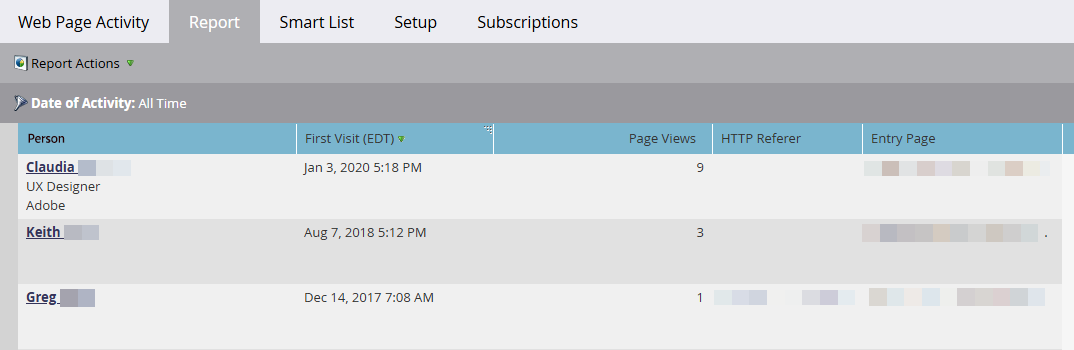
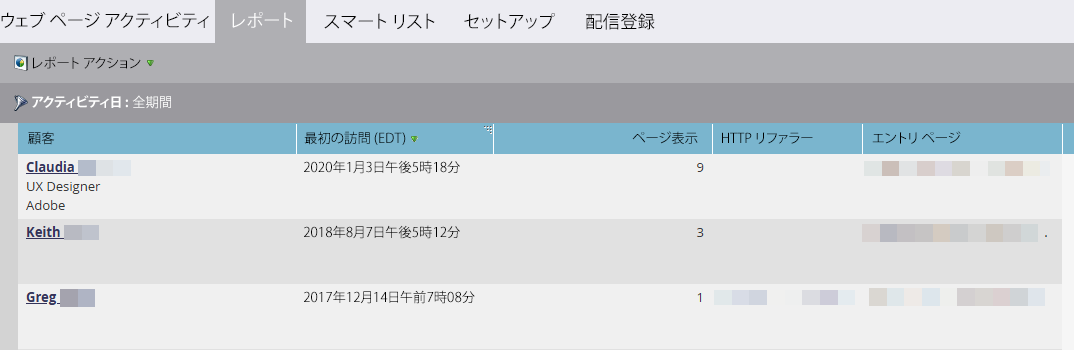
Updated by task 'AUTO_HANDOFF_1743687024037'  Changes for core/source commit https://git.corp.adobe.com/AdobeDocs/marketo.en/commit/f0ad739b85174976f2adbe30cf4d755c1da93f05

diff --git a/help/marketo/product-docs/reporting/basic-reporting/report-types/web-page-activity-report.md b/help/marketo/product-docs/reporting/basic-reporting/report-types/web-page-activity-report.md
@@ -5,9 +5,9 @@ title: Web ページアクティビティレポート
 exl-id: 35bd37bd-e7b9-4418-b2c9-af5989f44b9f
 feature: Reporting
 source-git-commit: f0ad739b85174976f2adbe30cf4d755c1da93f05
-workflow-type: tm+mt
+workflow-type: ht
 source-wordcount: '322'
-ht-degree: 91%
+ht-degree: 100%
 
 ---
 
@@ -21,7 +21,7 @@ ht-degree: 91%
 >
 >* [Web サイトへの Munchkin トラッキングコードの追加](/help/marketo/product-docs/administration/additional-integrations/add-munchkin-tracking-code-to-your-website.md){target="_blank"}
 
-1. [ レポートを作成 ](/help/marketo/product-docs/reporting/basic-reporting/creating-reports/create-a-report-in-a-program.md) し、**Web ページアクティビティレポート**[ レポートタイプ ](/help/marketo/product-docs/reporting/basic-reporting/report-types/report-type-overview.md){target="_blank"} を選択します
+1. [レポートを作成](/help/marketo/product-docs/reporting/basic-reporting/creating-reports/create-a-report-in-a-program.md)して、「**Web ページアクティビティレポート**」[レポートタイプ](/help/marketo/product-docs/reporting/basic-reporting/report-types/report-type-overview.md){target="_blank"}を選択します。
 1. レポートで[既知または匿名のリードの表示](/help/marketo/product-docs/reporting/basic-reporting/report-activity/display-people-or-anonymous-visitors-in-web-reports.md){target="_blank"}を選択します。
 
 1. [レポート時間枠を設定](/help/marketo/product-docs/reporting/basic-reporting/editing-reports/change-a-report-time-frame.md){target="_blank"}し、「**レポート**」タブをクリックします。
@@ -51,7 +51,7 @@ ht-degree: 91%
  <tbody> 
   <tr> 
    <td>顧客</td> 
-   <td>訪問者の名前、役職および会社。<br><strong><a href="/help/marketo/product-docs/reporting/basic-reporting/report-types/web-page-activity-report/web-pages-viewed-web-page-activity-report.md" target="_blank"> クリック </a></strong> して、訪問したページを表示します。</td>
+   <td>訪問者の名前、役職および会社。<br><strong><a href="/help/marketo/product-docs/reporting/basic-reporting/report-types/web-page-activity-report/web-pages-viewed-web-page-activity-report.md" target="_blank">クリック</a></strong>すると、訪問されたページが表示されます。</td>
   </tr> 
   <tr> 
    <td>初回／最終訪問（タイムゾーン）</td> 
@@ -82,7 +82,7 @@ ht-degree: 91%
 
 >[!TIP]
 >
->セールス担当者が喜びます。[ レポートをフィルタリング ](/help/marketo/product-docs/reporting/basic-reporting/editing-reports/filter-people-in-a-report-with-a-smart-list.md){target="_blank"} してテリトリーを絞り込み [ 登録 ](/help/marketo/product-docs/reporting/basic-reporting/report-subscriptions/subscribe-to-a-basic-report.md){target="_blank"}!
+>セールス担当者が喜びます。自分の担当地域に合わせて[レポートをフィルタリング](/help/marketo/product-docs/reporting/basic-reporting/editing-reports/filter-people-in-a-report-with-a-smart-list.md){target="_blank"}し、[購読します](/help/marketo/product-docs/reporting/basic-reporting/report-subscriptions/subscribe-to-a-basic-report.md){target="_blank"}。
 
 >[!MORELIKETHIS]
 >

diff --git a/help/marketo/product-docs/email-marketing/deliverability/durable-unsubscribe.md b/help/marketo/product-docs/email-marketing/deliverability/durable-unsubscribe.md
@@ -5,7 +5,7 @@ title: 永続的な登録解除
 exl-id: e03a5a01-7395-45b3-8351-7931ec413236
 feature: Deliverability
 source-git-commit: 777413b4256ab5342b933fa04c34d8a8d1201c0e
-workflow-type: tm+mt
+workflow-type: ht
 source-wordcount: '287'
 ht-degree: 100%
 
